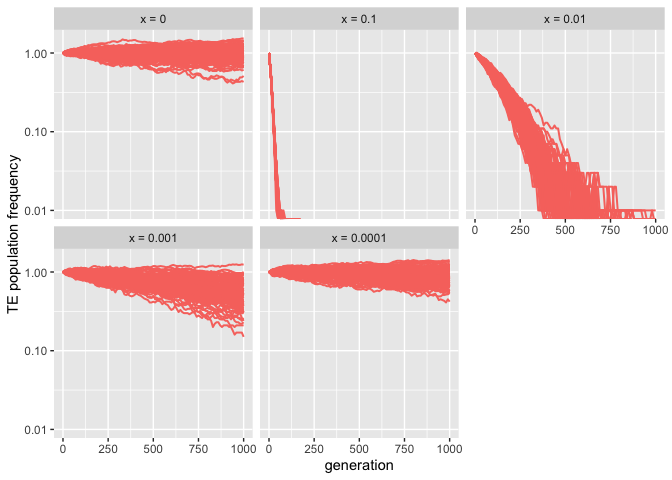
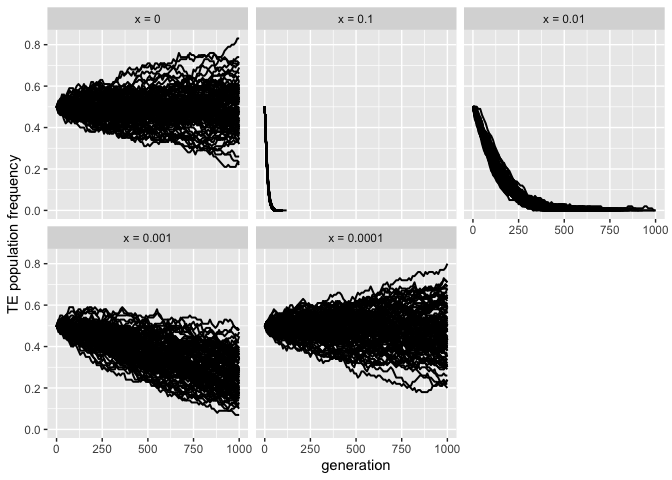
Update

diff --git a/Validation/2022_08_05_Validation_7_selection.md b/Validation/2022_08_05_Validation_7_selection.md
@@ -19,36 +19,26 @@ To do so we tested different scenarios:
 
 x is the selection coefficient.
 
--   x = 0, seed: 1659974780289607000
+-   x = 0, seed: 1674142770163408000
 
--   x = 0.1, seed: 1659976729436433000
+-   x = 0.1, seed: 1674144830844846000
 
--   x = 0.01, seed: 1659976873807557000
+-   x = 0.01, seed: 1674144976997220000
 
--   x = 0.001, seed: 1659977962027368000
+-   x = 0.001, seed: 1674146131872065000
 
--   x = 0.0001, seed: 1659979870159207000
-
-### Effect of a fixed selection coefficient x = 0.01 on different population sizes
-
--   N = 10, seed: 1660120246965342000
-
--   N = 100, seed: 1660120247347350000
-
--   N = 1000, seed: 1660120250808495000
-
--   N = 10000, seed: 1660120309255585000
-
--   N = 100000, seed: 1660121647914582000
+-   x = 0.0001, seed: 1674148120275471000
 
 ## Materials & Methods
 
-version: invadego 0.2.2
+version: invadego 0.2.3
 
 ### Commands for the simulation:
 
 ``` bash
-echo "10000 R 0;999999;" > input_sel
+echo "5000 R 0;0;
+2500 R 0;0;0
+2500 R 0;;" > input_sel
 % folder="/Users/ascarpa/Paramutations_TEs/Validation/Raw"
 tool="/Users/ascarpa/invade-invadego/invadego022"
 
@@ -66,19 +56,7 @@ $tool --N 10000 --u 0 -x 0.001 --basepop $folder/input_sel --gen 1000 --genome m
 
 $tool --N 10000 --u 0 -x 0.0001 --basepop $folder/input_sel --gen 1000 --genome mb:1 --steps 10 --rr 0 --rep 100 --sampleid psel7 > $folder/validation_7_7
 
-$tool --N 10 --u 0 -x 0.01 --basepop 10 --gen 1000 --genome mb:1 --steps 10 --rr 0 --rep 100 --sampleid psel8 > $folder/validation_7_8
-
-$tool --N 100 --u 0 -x 0.01 --basepop 100 --gen 1000 --genome mb:1 --steps 10 --rr 0 --rep 100 --sampleid psel9 > $folder/validation_7_9
-
-$tool --N 1000 --u 0 -x 0.01 --basepop 1000 --gen 1000 --genome mb:1 --steps 10 --rr 0 --rep 100 --sampleid psel10 > $folder/validation_7_10
-
-$tool --N 10000 --u 0 -x 0.01 --basepop 10000 --gen 1000 --genome mb:1 --steps 10 --rr 0 --rep 100 --sampleid psel11 > $folder/validation_7_11
-
-$tool --N 100000 --u 0 -x 0.01 --basepop 100000 --gen 1000 --genome mb:1 --steps 10 --rr 0 --rep 100 --sampleid psel12 > $folder/validation_7_12
-
-cat validation_7_3 validation_7_4 validation_7_5 validation_7_6 validation_7_7 |grep -v "^Invade"|grep -v "^#" > 2022_08_05_Validation_7_selection_1
-
-cat validation_7_8 validation_7_9 validation_7_10 validation_7_11 validation_7_12 |grep -v "^Invade"|grep -v "^#" > 2022_08_05_Validation_7_selection_2
+cat validation_7_3 validation_7_4 validation_7_5 validation_7_6 validation_7_7 |grep -v "^Invade"|grep -v "^#" > 2022_08_05_Validation_7_Selection
 ```
 
 ### Visualization in R
@@ -88,8 +66,9 @@ Setting the environment
 ``` r
 library(ggplot2)
 library(RColorBrewer)
-library(dplyr)
+library(plyr)
 library(patchwork)
+library(ggpubr)
 ```
 
 # Selection vs selection on non-cluster insertions
@@ -189,32 +168,28 @@ to be lost, while in the second only non cluster TEs are lost, while
 cluster insertions are maintained.
 
 ``` r
-df_1<-read.table("Raw/2022_08_05_Validation_7_selection_1", fill = TRUE, sep = "\t")
-names(df_1)<-c("rep", "gen", "popstat", "fmale", "spacer_1", "fwte", "avw", "avtes", "avpopfreq", "fixed","spacer_2","phase","fwpirna","spacer_3","fwcli","avcli","fixcli","spacer_4","fwpar_yespi","fwpar_nopi",
-              "avpar","fixpar","spacer_5","piori","orifreq","spacer 6", "sampleid")
+df_sel<-read.table("Raw/2022_08_05_Validation_7_Selection", fill = TRUE, sep = "\t")
+names(df_sel)<-c("rep", "gen", "popstat", "fmale", "spacer_1", "fwte", "avw", "min_w", "avtes", "avpopfreq",
+                 "fixed","spacer_2", "phase", "fwpirna", "spacer_3", "fwcli", "avcli", "fixcli", "spacer_4",
+                 "fwpar_yespi","fwpar_nopi", "avpar","fixpar","spacer_5","piori","orifreq","spacer 6", "sampleid")
 
-gt_1<-ggplot()+
-  theme(legend.position="none")+
-  geom_line(data=df_1,aes(x=gen, y=avtes , group=rep,color=phase),alpha=1,size=0.7)+
+g_sel<-ggplot(df_sel, aes(x=gen, y=avpopfreq , group=rep))+
+  geom_line(alpha=1,size=0.7)+
   ylab("TE population frequency") + xlab("generation")+
-  scale_y_log10()+
+  facet_wrap(~sampleid, ncol=3)+
   facet_wrap(~sampleid, labeller = labeller(sampleid = 
-                                       c("psel3" = "x = 0",
-                                         "psel4" = "x = 0.1",
-                                         "psel5" = "x = 0.01",
-                                         "psel6" = "x = 0.001",
-                                         "psel7" = "x = 0.0001")))
-plot(gt_1)
+                                              c("psel3" = "x = 0",
+                                                "psel4" = "x = 0.1",
+                                                "psel5" = "x = 0.01",
+                                                "psel6" = "x = 0.001",
+                                                "psel7" = "x = 0.0001")))
+plot(g_sel)
 ```
 
 ![](2022_08_05_Validation_7_selection_files/figure-gfm/unnamed-chunk-4-1.png)<!-- -->
 
 ``` r
-df1_s<-subset(df_1, sampleid=="psel3")
-df2_s<-subset(df_1, sampleid=="psel4")
-df3_s<-subset(df_1, sampleid=="psel5")
-df4_s<-subset(df_1, sampleid=="psel6")
-df5_s<-subset(df_1, sampleid=="psel7")
+df3_s<-subset(df_sel, sampleid=="psel3")
 
 p0=0.5
 p<-p0
@@ -240,16 +215,20 @@ traj<- as.data.frame(traj)
 traj[,3]<- "black"
 colnames(traj)<- c("freq", "generations", "color")
 
-g_s_1<-ggplot()+ 
-  geom_line(df1_s, mapping=aes(x=gen, y=avtes, group=rep), color="red")+
-  geom_line(traj, mapping=aes(x=generations, y=(freq*2)), color="black")+
+g_s_3<-ggplot()+ 
+  geom_line(df3_s, mapping=aes(x=gen, y=avpopfreq, group=rep), alpha =0.5)+
+  geom_line(traj, mapping=aes(x=generations, y=(freq)), color="blue", size = 1)+
+  ggtitle("x = 0")+
   labs(x="generation", y="frequency of TEs in the population")
-plot(g_s_1)
+
+plot(g_s_3)
 ```
 
 ![](2022_08_05_Validation_7_selection_files/figure-gfm/unnamed-chunk-4-2.png)<!-- -->
 
 ``` r
+df4_s<-subset(df_sel, sampleid=="psel4")
+
 p0=0.5
 p<-p0
 q<-1-p0
@@ -273,16 +252,20 @@ while(g<=max(t)){
 traj<- as.data.frame(traj)
 traj[,3]<- "black"
 colnames(traj)<- c("freq", "generations", "color")
-g_s_2<-ggplot()+ 
-  geom_line(df2_s, mapping=aes(x=gen, y=avtes, group=rep), color="red")+
-  geom_line(traj, mapping=aes(x=generations, y=(freq*2)), color="black")+
+g_s_4<-ggplot()+ 
+  geom_line(df4_s, mapping=aes(x=gen, y=avpopfreq, group=rep),alpha =0.5)+
+  geom_line(traj, mapping=aes(x=generations, y=(freq)), color="blue", size = 0.5)+
+  ggtitle("x = 0.1")+
   labs(x="generation", y="frequency of TEs in the population")
-plot(g_s_2)
+
+plot(g_s_4)
 ```
 
 ![](2022_08_05_Validation_7_selection_files/figure-gfm/unnamed-chunk-4-3.png)<!-- -->
 
 ``` r
+df5_s<-subset(df_sel, sampleid=="psel5")
+
 p0=0.5
 p<-p0
 q<-1-p0
@@ -306,16 +289,21 @@ while(g<=max(t)){
 traj<- as.data.frame(traj)
 traj[,3]<- "black"
 colnames(traj)<- c("freq", "generations", "color")
-g_s_3<-ggplot()+ 
-  geom_line(df3_s, mapping=aes(x=gen, y=avtes, group=rep), color="red")+
-  geom_line(traj, mapping=aes(x=generations, y=(freq*2)), color="black")+
+
+g_s_5<-ggplot()+ 
+  geom_line(df5_s, mapping=aes(x=gen, y=avpopfreq, group=rep), alpha =0.5)+
+  geom_line(traj, mapping=aes(x=generations, y=(freq)), color="blue", size = 1)+
+  ggtitle("x = 0.01")+
   labs(x="generation", y="frequency of TEs in the population")
-plot(g_s_3)
+
+plot(g_s_5)
 ```
 
 ![](2022_08_05_Validation_7_selection_files/figure-gfm/unnamed-chunk-4-4.png)<!-- -->
 
 ``` r
+df6_s<-subset(df_sel, sampleid=="psel6")
+
 p0=0.5
 p<-p0
 q<-1-p0
@@ -339,16 +327,20 @@ while(g<=max(t)){
 traj<- as.data.frame(traj)
 traj[,3]<- "black"
 colnames(traj)<- c("freq", "generations", "color")
-g_s_4<-ggplot()+ 
-  geom_line(df4_s, mapping=aes(x=gen, y=avtes, group=rep), color="red")+
-  geom_line(traj, mapping=aes(x=generations, y=(freq*2)), color="black")+
+g_s_6<-ggplot()+ 
+  geom_line(df6_s, mapping=aes(x=gen, y=avpopfreq, group=rep), alpha =0.5)+
+  geom_line(traj, mapping=aes(x=generations, y=(freq)), color="blue", size = 1)+
+  ggtitle("x = 0.001")+
   labs(x="generation", y="frequency of TEs in the population")
-plot(g_s_4)
+
+plot(g_s_6)
 ```
 
 ![](2022_08_05_Validation_7_selection_files/figure-gfm/unnamed-chunk-4-5.png)<!-- -->
 
 ``` r
+df7_s<-subset(df_sel, sampleid=="psel7")
+
 p0=0.5
 p<-p0
 q<-1-p0
@@ -372,58 +364,32 @@ while(g<=max(t)){
 traj<- as.data.frame(traj)
 traj[,3]<- "black"
 colnames(traj)<- c("freq", "generations", "color")
-g_s_5<-ggplot()+ 
-  geom_line(df5_s, mapping=aes(x=gen, y=avtes, group=rep), color="red")+
-  geom_line(traj, mapping=aes(x=generations, y=(freq*2)), color="black")+
+g_s_7<-ggplot()+ 
+  geom_line(df7_s, mapping=aes(x=gen, y=avpopfreq, group=rep), alpha =0.5)+
+  geom_line(traj, mapping=aes(x=generations, y=(freq)), color="blue", size = 1)+
+  ggtitle("x = 0.0001")+
   labs(x="generation", y="frequency of TEs in the population")
-plot(g_s_5)
+
+plot(g_s_7)
 ```
 
 ![](2022_08_05_Validation_7_selection_files/figure-gfm/unnamed-chunk-4-6.png)<!-- -->
 
-The simulations match the expected values (black line).
-
 ``` r
-df_2<-read.table("Raw/2022_08_05_Validation_7_selection_2", fill = TRUE, sep = "\t")
-names(df_2)<-c("rep", "gen", "popstat", "fmale", "spacer_1", "fwte", "avw", "avtes", "avpopfreq", "fixed","spacer_2","phase","fwpirna","spacer_3","fwcli","avcli","fixcli","spacer_4","fwpar_yespi","fwpar_nopi",
-            "avpar","fixpar","spacer_5","piori","orifreq","spacer 6", "sampleid")
-df_2$sampleid <- factor(df_2$sampleid, levels=c("psel8", "psel9", "psel10", "psel11","psel12"))
-
-gt_2<-ggplot()+
-  theme(legend.position="none")+
-  geom_line(data=df_2, aes(x=gen, y=avtes , group=rep,color=phase),alpha=1,size=0.7)+
-  ylab("TE population frequency") + xlab("generation")+
-  facet_wrap(~sampleid, labeller = labeller(sampleid = 
-                                              c("psel8" = "N = 10",
-                                                "psel9" = "N = 100",
-                                                "psel10" = "N = 1000",
-                                                "psel11" = "N = 10000",
-                                                "psel12" = "N = 100000")))
-plot(gt_2)
+ggarrange(g_s_3, g_s_7, g_s_6, g_s_5, g_s_4,
+          ncol = 3, nrow = 2, align = ("v"),
+          labels = c("A", "B", "C", "D", "E"), heights = c(2,2), widths = c(2,2)
+)
 ```
 
-![](2022_08_05_Validation_7_selection_files/figure-gfm/unnamed-chunk-5-1.png)<!-- -->
+![](2022_08_05_Validation_7_selection_files/figure-gfm/unnamed-chunk-4-7.png)<!-- -->
 
-``` r
-gt_2_2<-ggplot()+
-  theme(legend.position="none")+
-  geom_line(data=df_2, aes(x=gen, y=fixed , group=rep,color=phase),alpha=1,size=0.7)+
-  ylab("Fixed TEs") + xlab("generation")+
-  facet_wrap(~sampleid, labeller = labeller(sampleid = 
-                                              c("psel8" = "N = 10",
-                                                "psel9" = "N = 100",
-                                                "psel10" = "N = 1000",
-                                                "psel11" = "N = 10000",
-                                                "psel12" = "N = 100000")))
-plot(gt_2_2)
-```
-
-![](2022_08_05_Validation_7_selection_files/figure-gfm/unnamed-chunk-5-2.png)<!-- -->
+The simulations match the expected values (blue line).
 
 As we expected in the first set of graphs we can see how an higher
 selection coefficient decrease the number of generations needed to lose
-all the TEs in the population. But if selection is too small as in the
-last case TEs can persist in the population.
+all the TEs in the population. But if the selection coefficient is too
+small (A and B) drift will prevail.
 
 Selection is linked to population size and to be effective it has to
 meet the requirements from the following equation:
@@ -431,13 +397,7 @@ meet the requirements from the following equation:
 ![ N \\cdot x \> 1 ](https://latex.codecogs.com/png.image?%5Cdpi%7B110%7D&space;%5Cbg_white&space;%20N%20%5Ccdot%20x%20%3E%201%20 " N \cdot x > 1 ")
 
 Thus in small populations the predominant force is not selection but
-drift, this is shown by the second and third sets of graphs where
-selection was maintained at 0.01, while the population size changed. The
-frequency of the TEs was equal in all the population since the initial
-TEs insertion were equal to N. In populations with N = 10 and N = 100
-the TEs are able to become fixed in the population (as shown in the last
-set of graphs), therefore selection can’t purge them even though they
-decrease the fitness.
+drift.
 
 ## Conclusions
 
